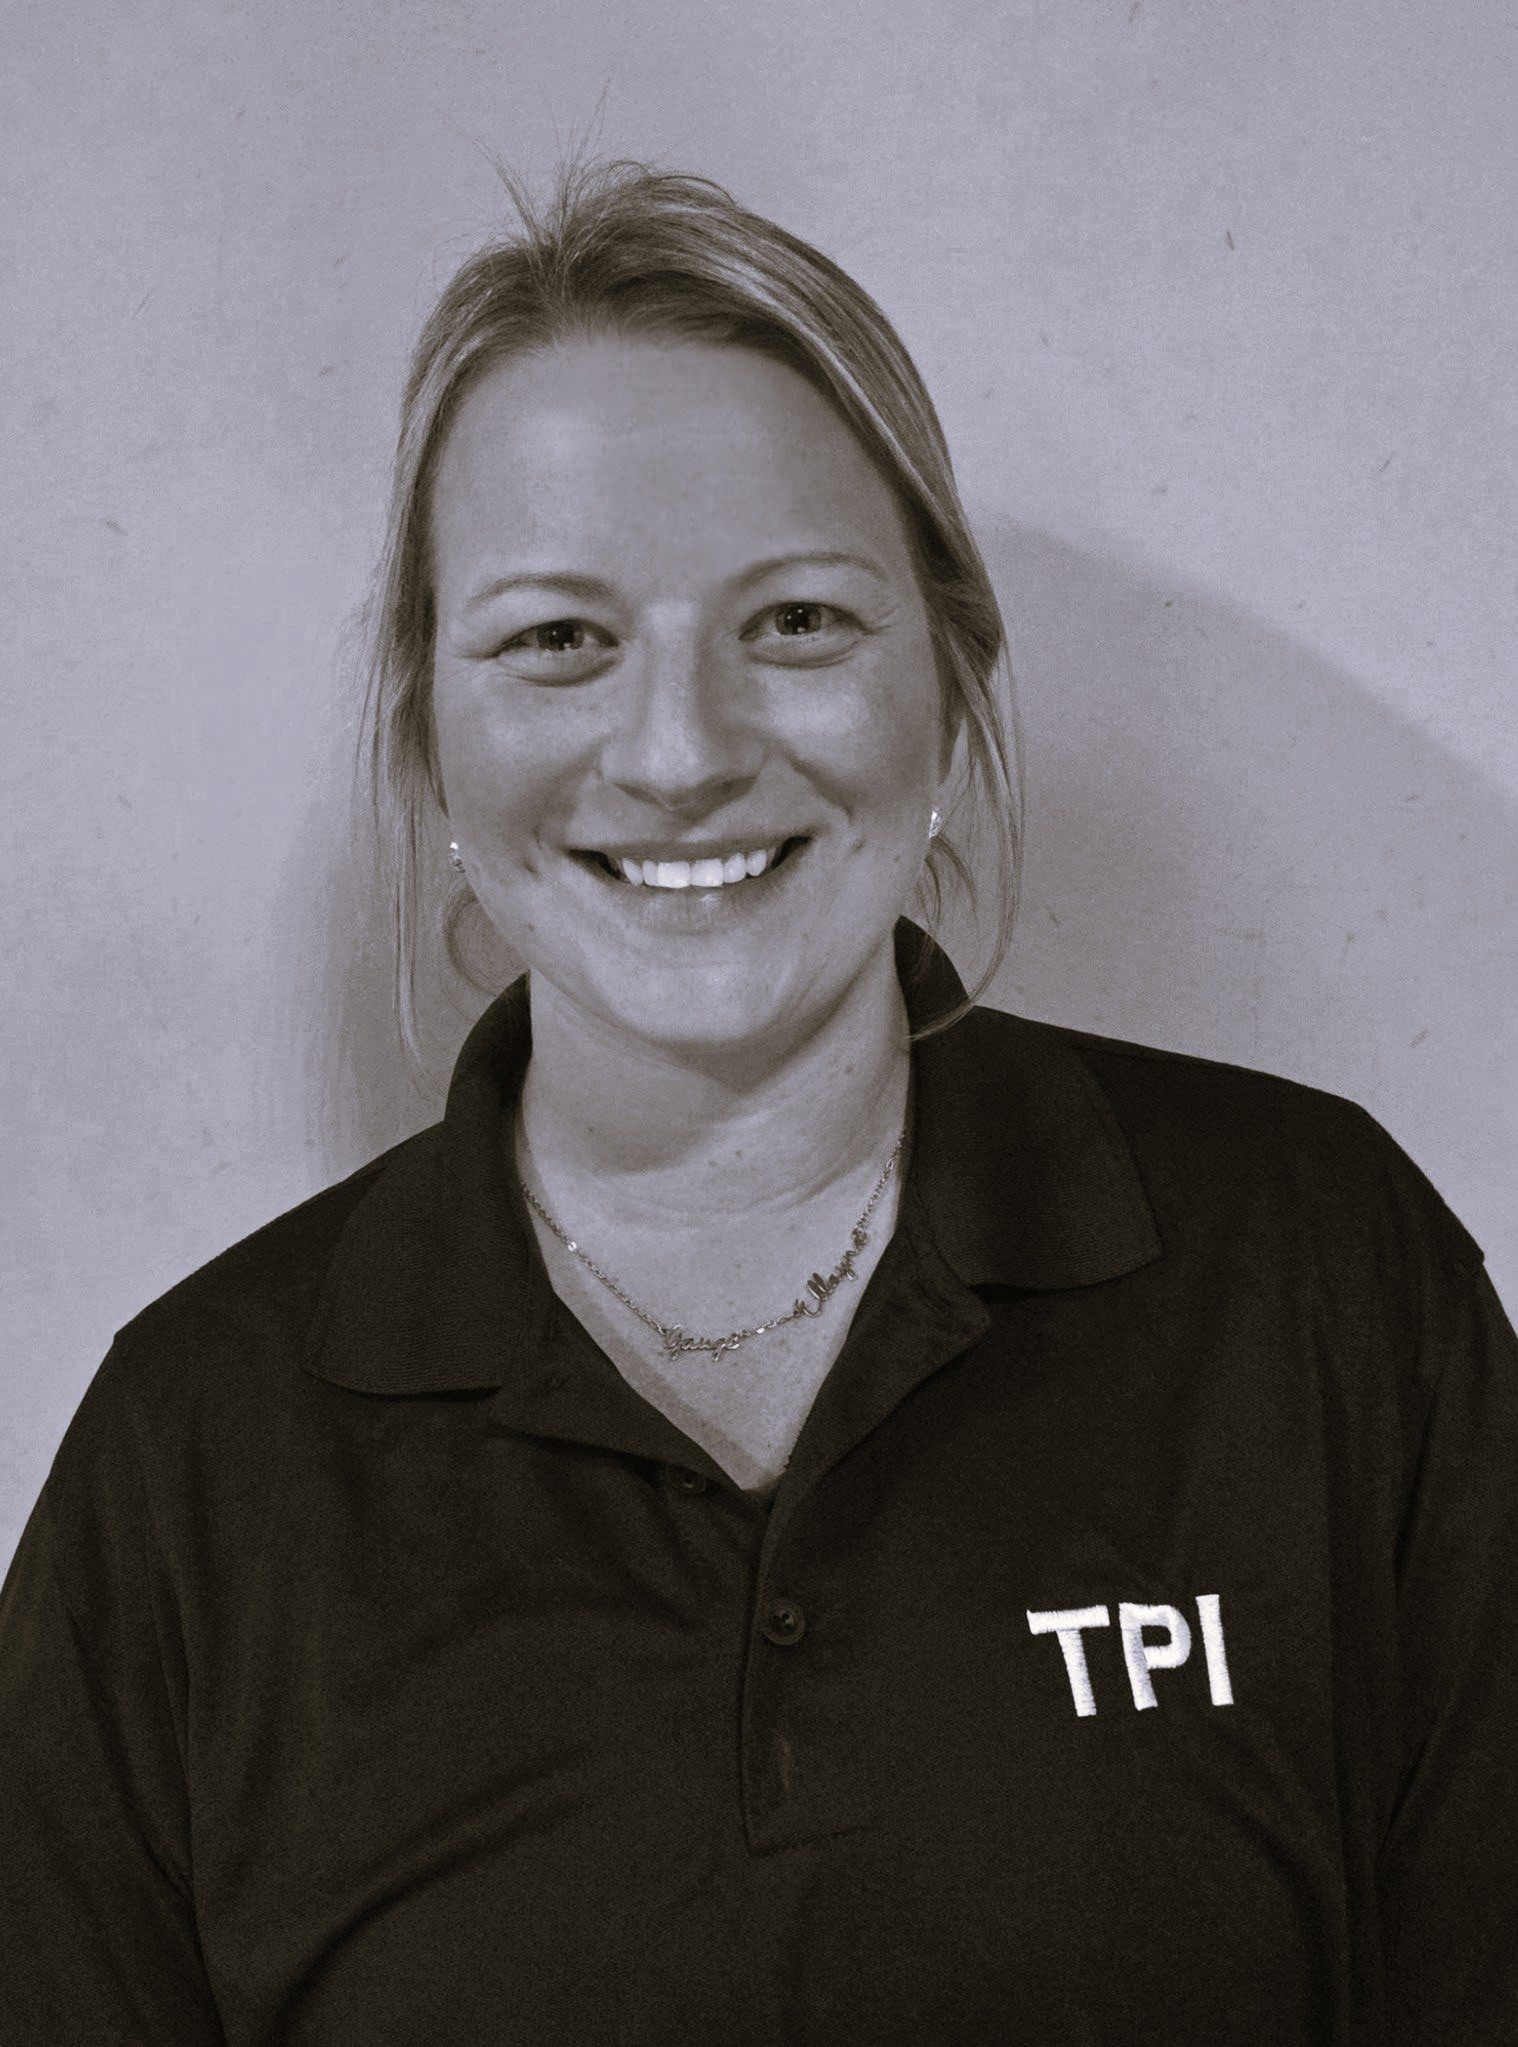
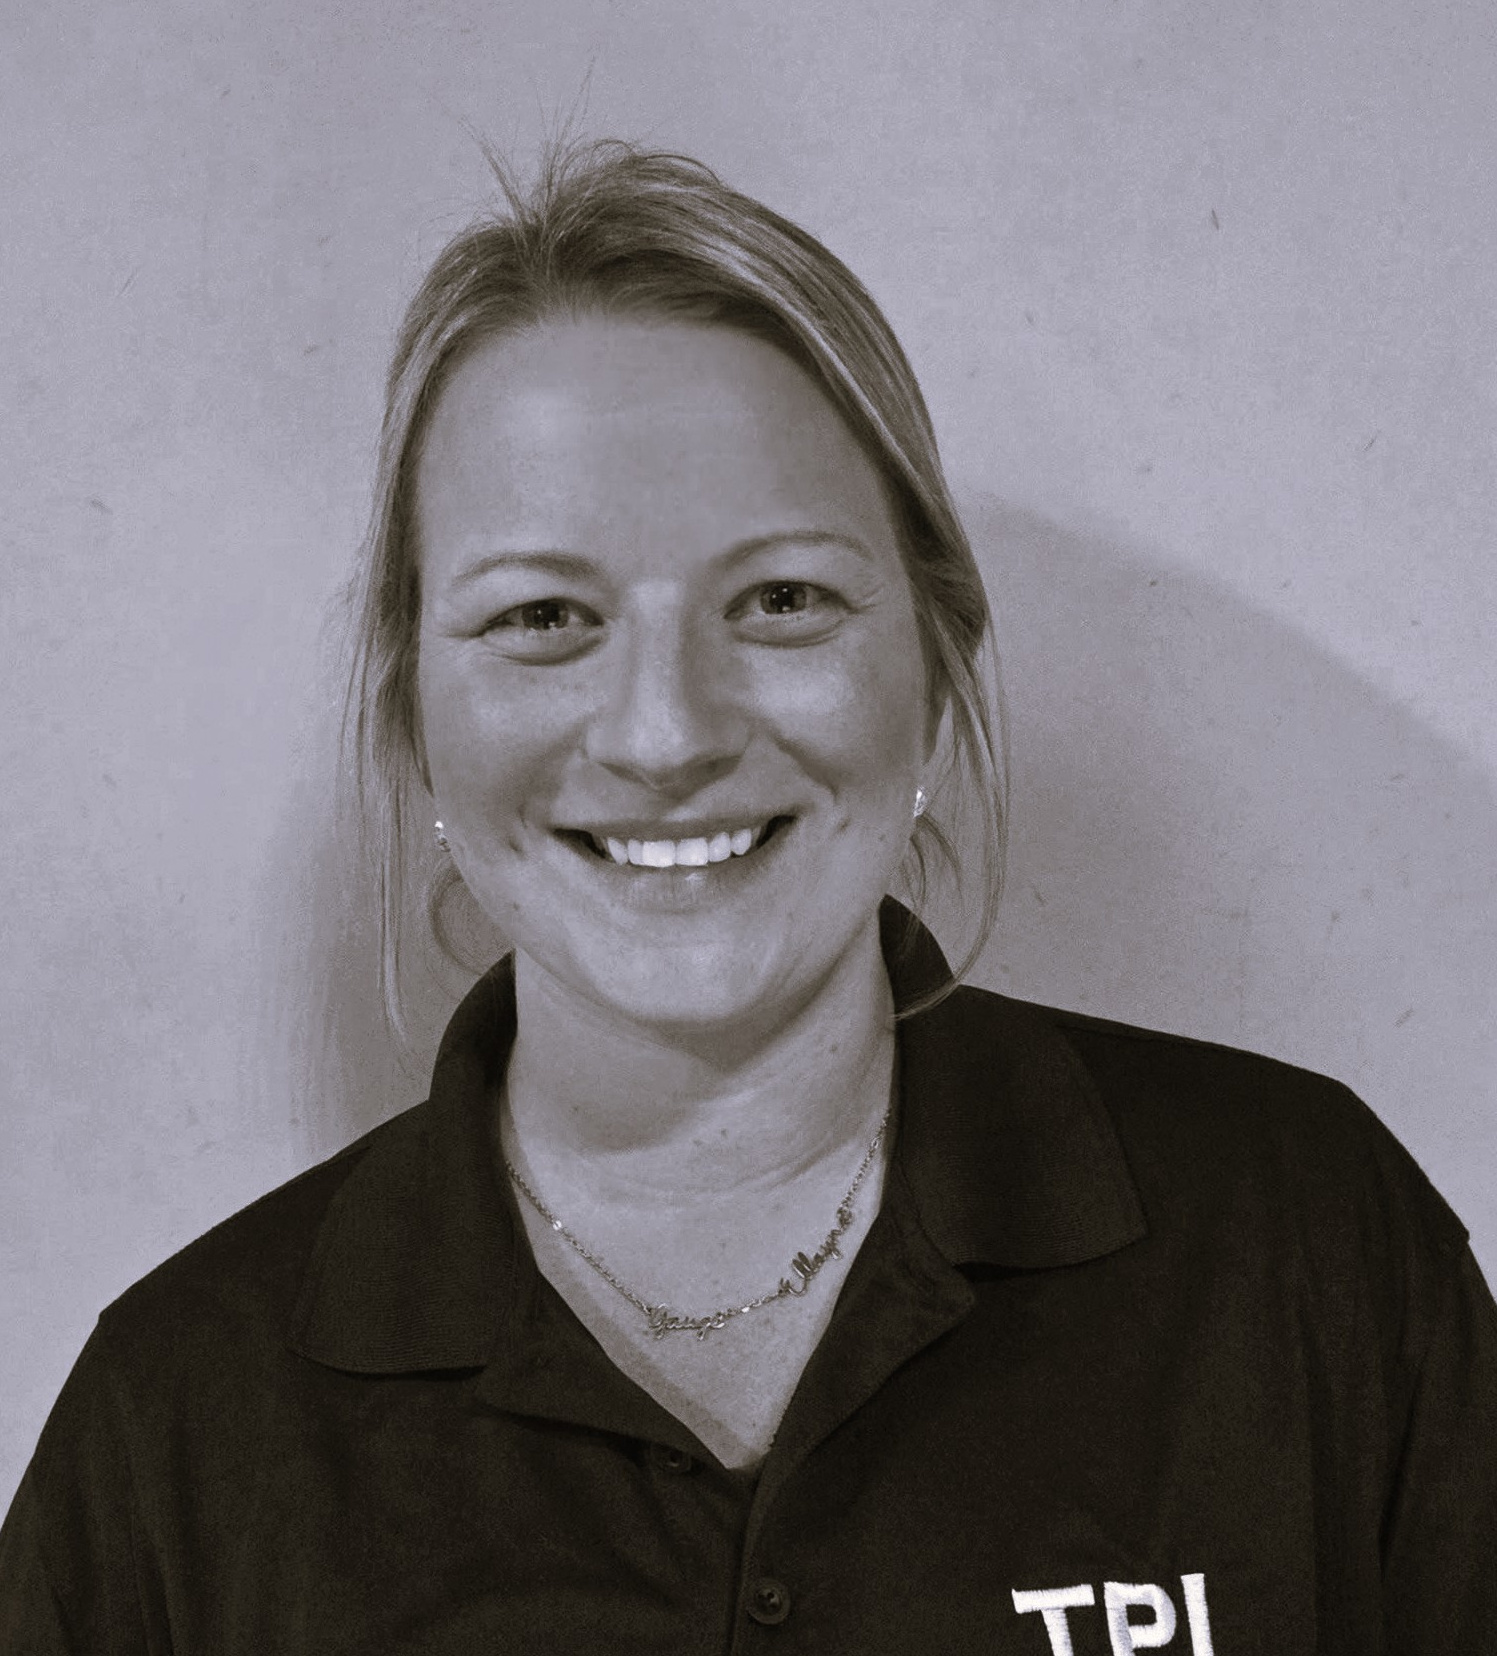
about page is touched up

diff --git a/app/about/page.tsx b/app/about/page.tsx
@@ -8,7 +8,7 @@ const teamMembers = [
     {
         name: "Teddy Powell",
         role: "Founder",
-        image: "/images/teddy.jpg",
+        image: "/images//headshots/TeddyPowell.jpg",
         description: ""
     },
   {
@@ -65,12 +65,12 @@ export default function About() {
                         width={300}
                         height={200}
                         priority
-                        className="rounded-md"
+                        className="rounded-lg shadow-lg"
                     />
                 </div>
                 <StorySection
                     missionStatement="At TPI, our culture is rooted in integrity, collaboration, and innovation. We value excellence in every aspect of our work, from customer service to technical expertise. Our purpose is clear: to serve as a beacon of reliability and support for local industries, fostering their growth and success on the global stage. Through our unwavering commitment to these values, we aim to inspire trust, drive progress, and make a meaningful impact in the communities we serve."
-                    yearsOfExperience={25}
+                    yearsOfExperience={15}
                     projectsCompleted={1000}
                 />
             </ContentSection>

diff --git a/app/components/about/CommunitySection.tsx b/app/components/about/CommunitySection.tsx
@@ -19,7 +19,7 @@ const FeatureCard = ({
             <div className="text-center">
                 <h3 className="text-2xl font-semibold text-brand-blue mb-4">{title}</h3>
                 <div className="inline-flex items-center justify-center px-4 py-2 bg-brand-blue/5 rounded-full">
-                    <img src={picture_path} alt={title} className="h-24 pb-4" />
+                    <img src={picture_path} alt={title} className="h-24 object-contain pb-4" />
                 </div>
             </div>
 
